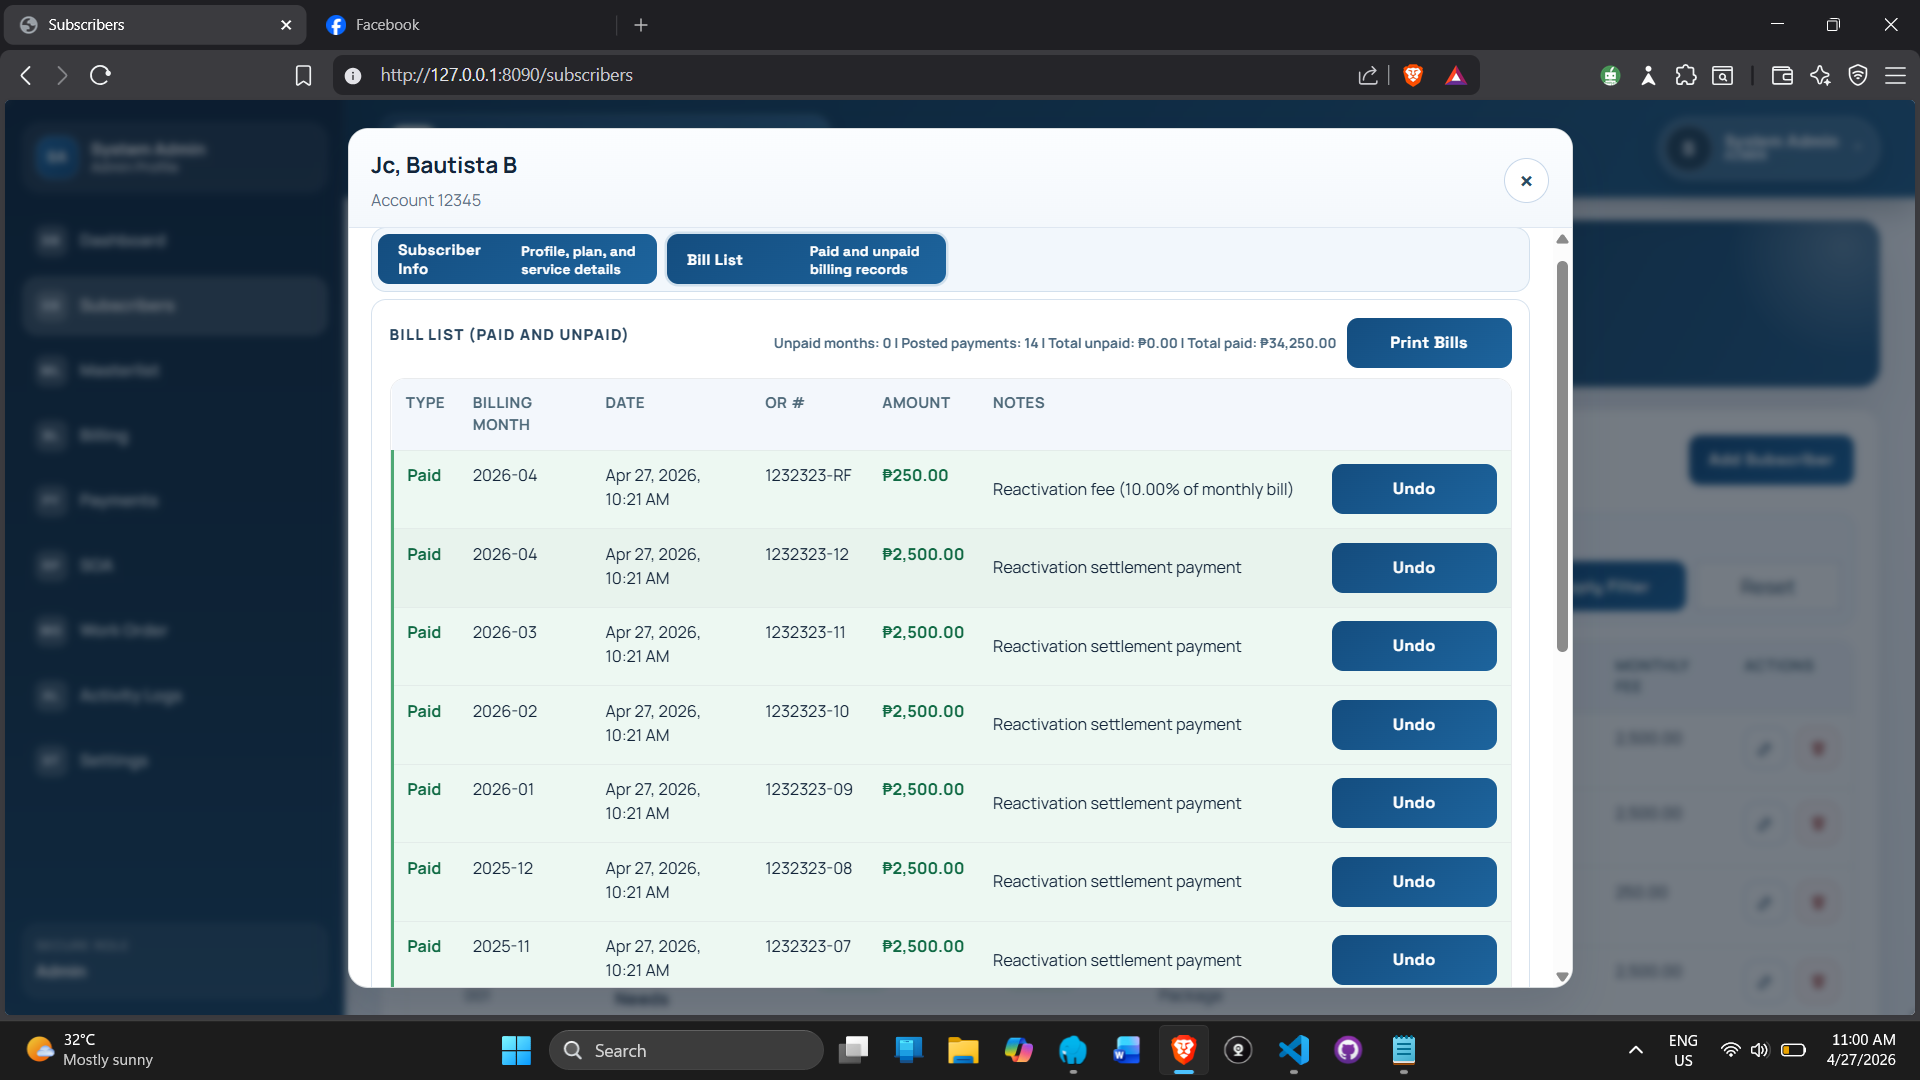
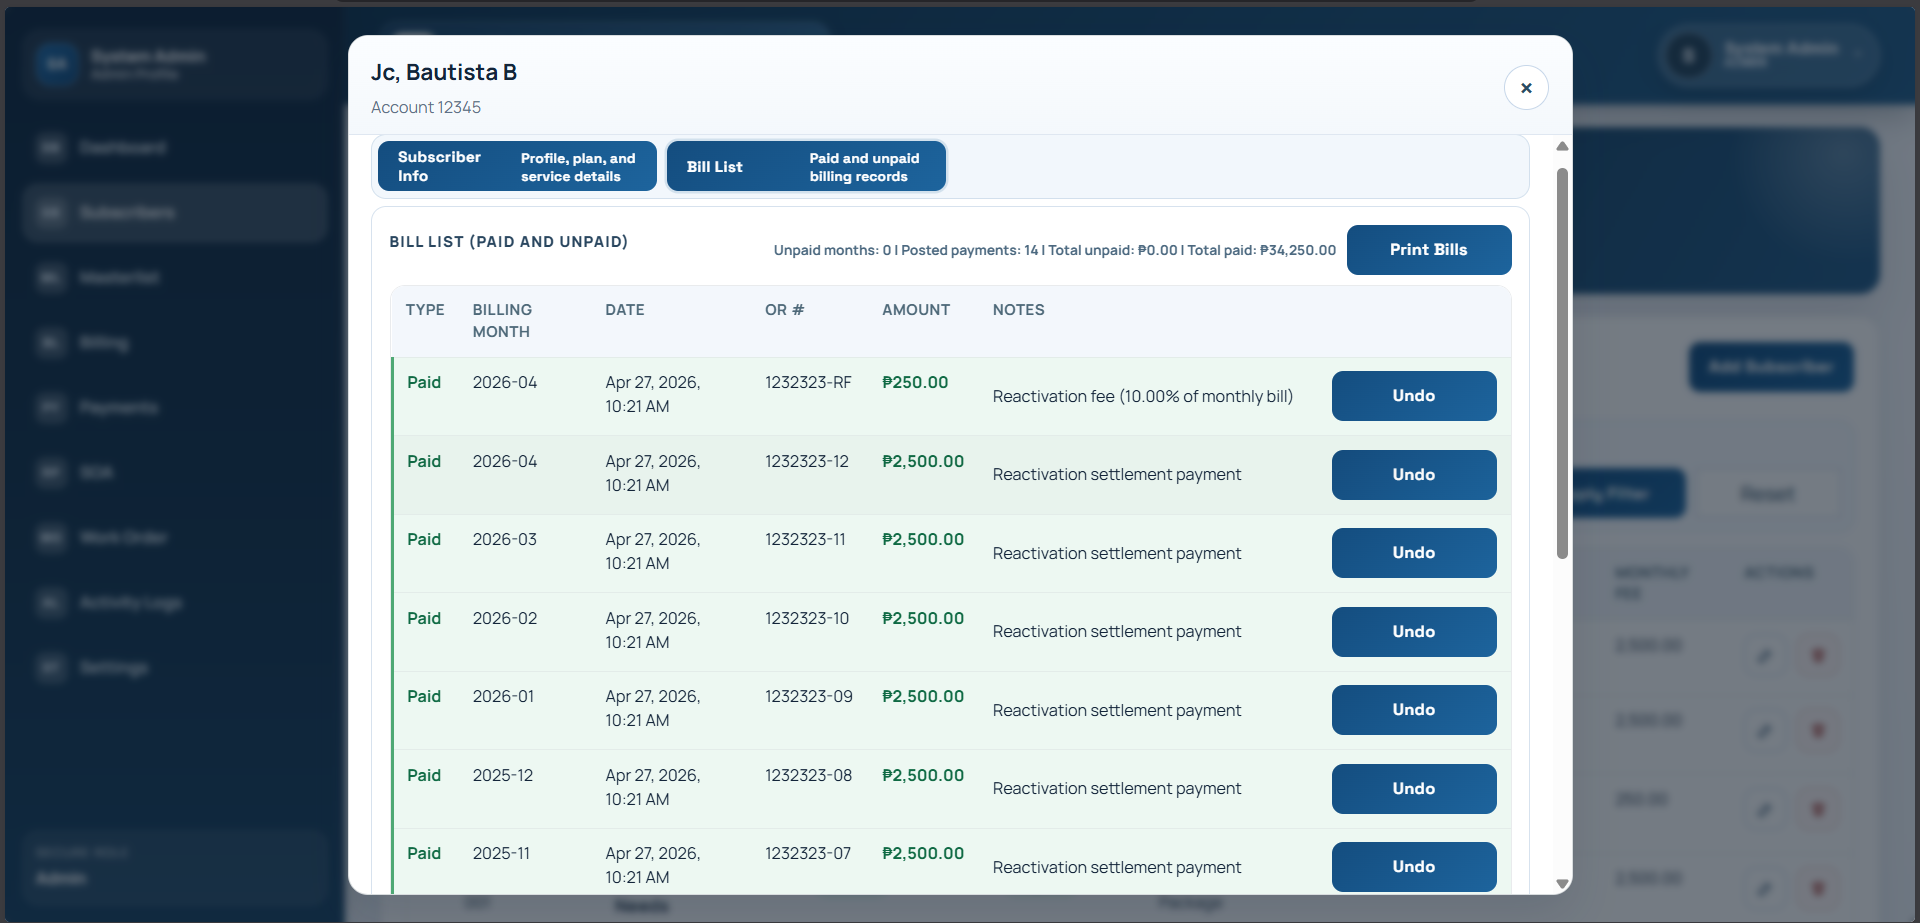
updated

diff --git a/app/globals.css b/app/globals.css
@@ -32,12 +32,12 @@
   --surface: #171d29;
   --ink: #f3f5f8;
   --muted: #a7b0c0;
-  --line: #364154;
+  --line: #3b4962;
   --accent: #8ea7ff;
   --accent-hover: #b0c0ff;
   --accent-soft: #202b49;
   --dark-bg: #f3f5f8;
-  --shadow: 0 18px 50px rgba(0, 0, 0, 0.24);
+  --shadow: 0 18px 50px rgba(0, 0, 0, 0.3);
   --portrait-outline: #c5ccd8;
   --portrait-glow: rgba(142, 167, 255, 0.2);
   --divider: #46536a;
@@ -187,6 +187,8 @@ h1, h2, h3, h4, .sidebar-nav-link { font-family: var(--font-heading); }
   .hero-role { font-family: var(--font-heading); letter-spacing: -0.045em; line-height: 1.1; }
   .availability { @apply rounded-full bg-accent-soft px-2 py-0.5 text-[9px] text-accent; }
   .featured-card { @apply mt-2 rounded-[9px] border border-line bg-surface px-3 py-3; }
+  :root[data-theme='dark'] .featured-card, :root[data-theme='dark'] .project-card, :root[data-theme='dark'] .technology-card { box-shadow: 0 12px 32px rgba(0, 0, 0, 0.14); }
+  :root[data-theme='dark'] .featured-card:hover, :root[data-theme='dark'] .technology-card:hover { border-color: var(--accent); box-shadow: 0 14px 36px rgba(0, 0, 0, 0.22), 0 0 22px color-mix(in srgb, var(--accent) 10%, transparent); }
   .tag { @apply rounded-[4px] bg-accent-soft px-1.5 py-0.5 text-[9px] text-accent; }
   .section-block { @apply border-b border-line py-12 sm:py-16; }
   .eyebrow { @apply text-[10px] font-medium uppercase tracking-wide text-accent; }
@@ -231,11 +233,11 @@ h1, h2, h3, h4, .sidebar-nav-link { font-family: var(--font-heading); }
   .back-to-top-ring-progress { stroke: var(--accent); stroke-linecap: round; stroke-dasharray: 138.23; transition: stroke-dashoffset 100ms linear; }
   .project-card-slide { transition: opacity 200ms ease; }
   .project-card { transition: transform 250ms ease, border-color 250ms ease, box-shadow 250ms ease; }
-  .project-card:hover { transform: translateY(-3px); border-color: var(--accent); box-shadow: var(--shadow); }
+  .project-card:hover { transform: translateY(-3px); border-color: var(--accent); box-shadow: var(--shadow), 0 0 0 1px color-mix(in srgb, var(--accent) 18%, transparent); }
   .project-card-count { @apply absolute left-3 top-3 z-[1] rounded-full border border-line bg-surface px-2.5 py-1 text-[11px] font-medium text-ink shadow-sm; }
   .project-card-controls { @apply absolute bottom-3 right-3 z-[1] flex gap-2; }
   .project-card-arrow { @apply flex h-8 w-8 items-center justify-center rounded-full border border-line bg-surface text-ink shadow-sm transition-colors duration-200 hover:border-accent hover:text-accent; }
-  .social-link { @apply flex h-8 w-8 items-center justify-center rounded-md border border-line text-ink transition-all hover:-translate-y-0.5 hover:border-accent hover:text-accent; }
+  .social-link { @apply flex h-8 w-8 items-center justify-center rounded-md border border-line bg-surface text-ink transition-all duration-200 hover:-translate-y-0.5 hover:border-accent hover:bg-accent-soft hover:text-accent; }
   .about-heading { @apply max-w-4xl; }
   .about-profile-card { @apply mx-auto w-full max-w-[340px]; }
   .about-portrait { @apply mx-auto w-full; }
@@ -294,13 +296,15 @@ h1, h2, h3, h4, .sidebar-nav-link { font-family: var(--font-heading); }
   .technology-mark-arduino { color: #00979d; }
   .technology-mark-android-development { color: #3ddc84; }
   .technology-mark-rest-apis { color: var(--accent); }
-  .project-card-image { @apply relative aspect-[16/9] overflow-hidden rounded-md border border-line bg-canvas; }
+  .project-card-image { @apply relative aspect-[16/9] overflow-hidden rounded-t-md rounded-b-none border border-line bg-canvas; }
   .project-card-image img { @apply transition-transform duration-300 group-hover:scale-[1.03]; }
   .project-category { @apply inline-flex w-fit self-start rounded-md border border-line bg-canvas px-2.5 py-1 text-[10px] font-medium uppercase tracking-wide text-ink; }
   .project-tech-stack { @apply min-w-0; }
   .project-tech-label { @apply text-[10px] font-medium uppercase tracking-wider text-muted; }
-  .project-tech { @apply rounded-full border border-line bg-canvas px-2.5 py-1 text-[11px] text-muted; }
+  .project-tech { @apply rounded-full border border-line bg-canvas px-2.5 py-1 text-[11px] text-muted transition-colors duration-200; }
+  .project-tech:hover { @apply border-accent text-accent; }
   .project-card-description { display: -webkit-box; overflow: hidden; -webkit-box-orient: vertical; -webkit-line-clamp: 3; }
+  .project-card-content { @apply rounded-b-xl; }
   .project-card-footer { min-height: 36px; }
   .project-action { @apply inline-flex items-center gap-1.5 text-sm font-medium text-accent transition-colors hover:text-accent-hover; }
   .project-github-action { @apply rounded-md border border-line p-2; }

diff --git a/components/Hero.jsx b/components/Hero.jsx
@@ -15,10 +15,11 @@ export default function Hero() {
             <a href="#projects" className="focus-ring inline-flex items-center gap-2 rounded-md bg-accent px-5 py-3 text-sm font-medium text-white transition-colors hover:bg-accent-hover">View projects <Icon name="arrow" size={16} /></a>
             <a href="#contact" className="focus-ring inline-flex items-center rounded-md border border-line bg-surface px-5 py-3 text-sm font-medium text-ink transition-colors hover:border-accent hover:text-accent">Contact me</a>
             <div className="flex items-center gap-2" aria-label="Social links">
-              <a href="https://github.com/" target="_blank" rel="noreferrer" className="focus-ring social-link" aria-label="GitHub" title="GitHub"><Icon name="github" size={15} /></a>
-              <a href="https://linkedin.com/" target="_blank" rel="noreferrer" className="focus-ring social-link" aria-label="LinkedIn" title="LinkedIn"><Icon name="linkedin" size={15} /></a>
-              <a href="https://facebook.com/" target="_blank" rel="noreferrer" className="focus-ring social-link" aria-label="Facebook" title="Facebook"><Icon name="facebook" size={15} /></a>
-              <a href="https://www.instagram.com/" target="_blank" rel="noreferrer" className="focus-ring social-link" aria-label="Instagram" title="Instagram"><Icon name="instagram" size={15} /></a>
+              <a href="https://github.com/Pula-red" target="_blank" rel="noreferrer" className="focus-ring social-link" aria-label="GitHub" title="GitHub"><Icon name="github" size={15} /></a>
+              <a href="https://www.linkedin.com/in/john-jared-bueta-474376271/" target="_blank" rel="noreferrer" className="focus-ring social-link" aria-label="LinkedIn" title="LinkedIn"><Icon name="linkedin" size={15} /></a>
+              <a href="https://www.facebook.com/profile.php?id=61590779427219" target="_blank" rel="noreferrer" className="focus-ring social-link" aria-label="Facebook" title="Facebook"><Icon name="facebook" size={15} /></a>
+              <a href="https://www.instagram.com/buetajohnjared/" target="_blank" rel="noreferrer" className="focus-ring social-link" aria-label="Instagram" title="Instagram"><Icon name="instagram" size={15} /></a>
+              <a href="viber://chat?number=%2B639813193447" className="focus-ring social-link" aria-label="Viber" title="Viber"><Icon name="viber" size={15} /></a>
               <a href="https://wa.me/639813193447" target="_blank" rel="noreferrer" className="focus-ring social-link" aria-label="WhatsApp" title="WhatsApp"><Icon name="whatsapp" size={15} /></a>
             </div>
           </div>

diff --git a/components/Sidebar.jsx b/components/Sidebar.jsx
@@ -42,7 +42,7 @@ export default function Sidebar() {
     <aside className="sidebar-panel">
       <div className="flex h-full flex-col px-6 py-6">
         <div className="sidebar-avatar">
-          <Image src="/images/projects/RED-NO-BG.png" alt="John Jared Bueta profile" fill className="sidebar-avatar-image scale-125 object-contain object-bottom" sizes="220px" />
+          <Image src="/images/projects/RED2-NO-BG.png" alt="John Jared Bueta profile" fill className="sidebar-avatar-image scale-125 object-contain object-bottom" sizes="220px" />
         </div>
         <a href="#top" className="focus-ring inline-block" aria-label="Jared home">
           <span className="mt-6 block text-center text-xl font-semibold text-ink">John Jared Bueta</span>

diff --git a/components/About.jsx b/components/About.jsx
@@ -19,7 +19,7 @@ export default function About() {
         <div className="about-profile-card">
           <div className="about-portrait">
             <div className="about-portrait-inner">
-              <Image src="/images/projects/RED-NO-BG.png" alt="John Jared Bueta profile" fill className="object-contain object-bottom" sizes="320px" />
+              <Image src="/images/projects/RED2-NO-BG.png" alt="John Jared Bueta profile" fill className="object-contain object-bottom" sizes="320px" />
             </div>
           </div>
         </div>
